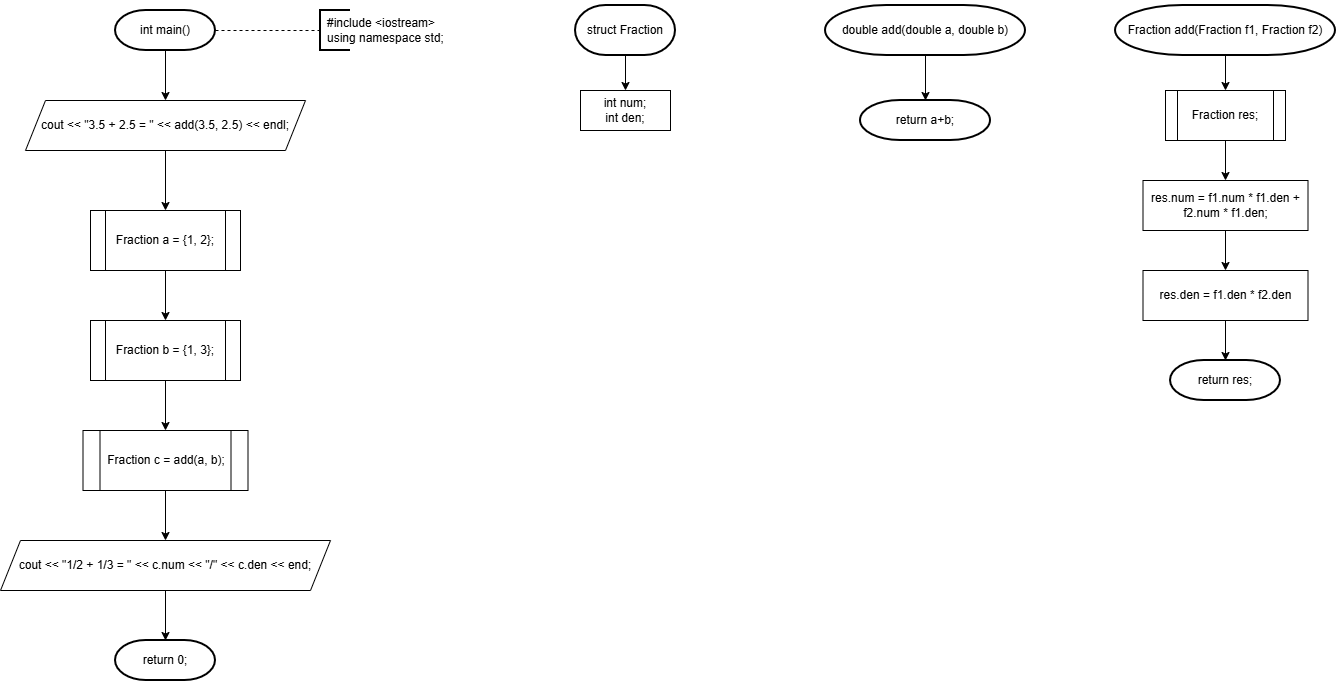
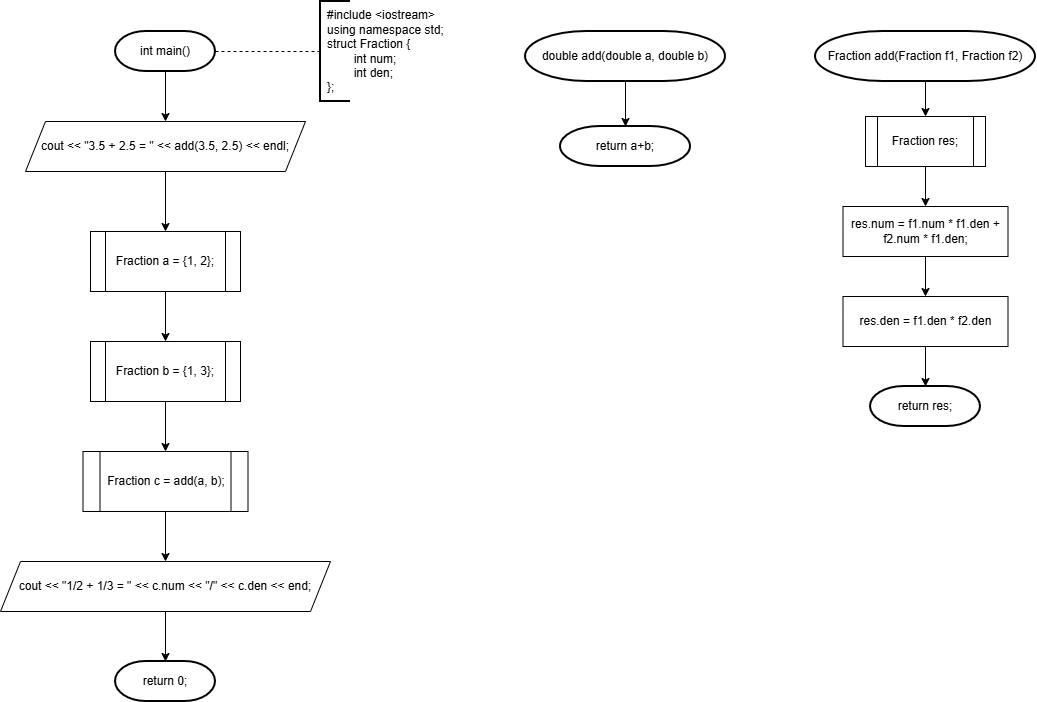
lab8,9

diff --git a/Sem_2/labs/lab_8/lab8_var9.cpp b/Sem_2/labs/lab_8/lab8_var9.cpp
@@ -1,0 +1,152 @@
+#include <iostream>
+#include <fstream>
+#include <cstring>
+#include <clocale>
+using namespace std;
+
+struct Patient {
+    char fullName[50];
+    char address[100];
+    int medCardNumber;
+    int insuranceNumber;
+};
+
+Patient inputPatient() {
+    Patient p;
+    cin.ignore();
+    cout << "ФИО: ";
+    cin.getline(p.fullName, 50);
+    cout << "Адрес: ";
+    cin.getline(p.address, 100);
+    cout << "Номер мед. карты: ";
+    cin >> p.medCardNumber;
+    cout << "Номер страхового полиса: ";
+    cin >> p.insuranceNumber;
+    return p;
+}
+
+void printPatient(Patient p) {
+    cout << "ФИО: " << p.fullName << endl;
+    cout << "Адрес: " << p.address << endl;
+    cout << "Номер мед. карты: " << p.medCardNumber << endl;
+    cout << "Номер страхового полиса: " << p.insuranceNumber << endl;
+    cout << "-----------------------------" << endl;
+}
+
+void createFile(const char* filename, int n) {
+    ofstream fout(filename, ios::binary);
+    if (!fout) {
+        cout << "Ошибка открытия файла!" << endl;
+        return;
+    }
+    for (int i = 0; i < n; i++) {
+        cout << "\nВвод пациента " << i + 1 << ":" << endl;
+        Patient p = inputPatient();
+        fout.write((char*)&p, sizeof(Patient));
+    }
+    fout.close();
+    cout << "Файл создан!" << endl;
+}
+
+void printFile(const char* filename) {
+    ifstream fin(filename, ios::binary);
+    if (!fin) {
+        cout << "Ошибка открытия файла!" << endl;
+        return;
+    }
+    Patient p;
+    cout << "\nСодержимое файла:" << endl;
+    while (fin.read((char*)&p, sizeof(Patient))) {
+        printPatient(p);
+    }
+    fin.close();
+}
+
+void deleteByMedCard(const char* filename, int medCard) {
+    ifstream fin(filename, ios::binary);
+    ofstream fout("temp.dat", ios::binary);
+    if (!fin || !fout) {
+        cout << "Ошибка открытия файла!" << endl;
+        return;
+    }
+    Patient p;
+    bool found = false;
+    while (fin.read((char*)&p, sizeof(Patient))) {
+        if (p.medCardNumber != medCard) {
+            fout.write((char*)&p, sizeof(Patient));
+        } else {
+            found = true;
+        }
+    }
+    fin.close();
+    fout.close();
+    remove(filename);
+    rename("temp.dat", filename);
+    if (found) {
+        cout << "Элемент с номером мед. карты " << medCard << " удалён!" << endl;
+    } else {
+        cout << "Элемент не найден!" << endl;
+    }
+}
+
+void addTwoPatients(const char* filename) {
+    ifstream fin(filename, ios::binary);
+    ofstream fout("temp.dat", ios::binary);
+    if (!fin || !fout) {
+        cout << "Ошибка открытия файла!" << endl;
+        return;
+    }
+    cout << "\nВвод 2 новых пациентов:" << endl;
+    Patient newPatients[2];
+    for (int i = 0; i < 2; i++) {
+        cout << "\nПациент " << i + 1 << ":" << endl;
+        newPatients[i] = inputPatient();
+    }
+    for (int i = 0; i < 2; i++) {
+        fout.write((char*)&newPatients[i], sizeof(Patient));
+    }
+    Patient p;
+    while (fin.read((char*)&p, sizeof(Patient))) {
+        fout.write((char*)&p, sizeof(Patient));
+    }
+    fin.close();
+    fout.close();
+    remove(filename);
+    rename("temp.dat", filename);
+    cout << "2 элемента добавлены в начало файла!" << endl;
+}
+
+int main() {
+    setlocale(LC_ALL, "Russian")
+    const char* filename = "patients.dat";
+    int choice, n, medCard;
+    do {
+        cout << "\n========== МЕНЮ ==========" << endl;
+        cout << "1. Создать файл" << endl;
+        cout << "2. Вывести содержимое файла" << endl;
+        cout << "3. Удалить элемент по номеру мед. карты" << endl;
+        cout << "4. Добавить 2 элемента в начало" << endl;
+        cout << "0. Выход" << endl;
+        cout << "Выберите действие: ";
+        cin >> choice;
+        switch (choice) {
+            case 1:
+                cout << "Сколько пациентов ввести? ";
+                cin >> n;
+                createFile(filename, n);
+                break;
+            case 2:
+                printFile(filename);
+                break;
+            case 3:
+                cout << "Введите номер мед. карты: ";
+                cin >> medCard;
+                deleteByMedCard(filename, medCard);
+                break;
+            case 4:
+                addTwoPatients(filename);
+                break;
+        }
+    } while (choice != 0);
+    return 0;
+}

diff --git a/Sem_2/labs/lab_9/lab9_var9.cpp b/Sem_2/labs/lab_9/lab9_var9.cpp
@@ -1,0 +1,98 @@
+#include <iostream>
+#include <fstream>
+#include <cstring>
+using namespace std;
+
+int countWords(char s[]) {
+    int count = 0;
+    bool inWord = false;
+    for (int i = 0; s[i] != '\0'; i++) {
+        if (s[i] != ' ' && s[i] != '\n') {
+            if (!inWord) {
+                count++;
+                inWord = true;
+            }
+        } else {
+            inWord = false;
+        }
+    }
+    return count;
+}
+
+void findLongestWord(char s[], char longest[]) {
+    char word[100];
+    int maxLen = 0;
+    int i = 0;
+    while (s[i] != '\0') {
+        while (s[i] == ' ') i++;
+        int j = 0;
+        while (s[i] != ' ' && s[i] != '\0' && s[i] != '\n') {
+            word[j++] = s[i++];
+        }
+        word[j] = '\0';
+        if (j > maxLen) {
+            maxLen = j;
+            strcpy(longest, word);
+        }
+    }
+}
+
+int main() {
+    ofstream f1("F1.txt");
+    if (!f1) {
+        cout << "Ошибка создания файла F1!" << endl;
+        return 1;
+    }
+    cout << "Введите 10 строк:" << endl;
+    cin.ignore();
+    for (int i = 0; i < 10; i++) {
+        char s[256];
+        cin.getline(s, 256);
+        f1 << s << endl;
+    }
+    f1.close();
+    cout << "Файл F1 создан!" << endl;
+    
+    ifstream fin("F1.txt");
+    ofstream fout("F2.txt");
+    if (!fin || !fout) {
+        cout << "Ошибка открытия файлов!" << endl;
+        return 1;
+    }
+    char line[256];
+    cout << "\nСтроки с одним словом (скопированы в F2):" << endl;
+    cout << "=============================" << endl;
+    while (fin.getline(line, 256)) {
+        if (countWords(line) == 1) {
+            fout << line << endl;
+            cout << line << endl;
+        }
+    }
+    fin.close();
+    fout.close();
+    cout << "=============================" << endl;
+    cout << "Файл F2 создан!" << endl;
+    
+    ifstream fin2("F2.txt");
+    if (!fin2) {
+        cout << "Файл F2 пуст или не существует!" << endl;
+        return 1;
+    }
+    char longestWord[100] = "";
+    char curLine[256];
+    while (fin2.getline(curLine, 256)) {
+        char word[100];
+        findLongestWord(curLine, word);
+        if (strlen(word) > strlen(longestWord)) {
+            strcpy(longestWord, word);
+        }
+    }
+    fin2.close();
+    if (strlen(longestWord) > 0) {
+        cout << "\nСамое длинное слово в файле F2: " << longestWord << endl;
+        cout << "Длина: " << strlen(longestWord) << " символов" << endl;
+    } else {
+        cout << "\nВ файле F2 нет слов!" << endl;
+    }
+    return 0;
+}
